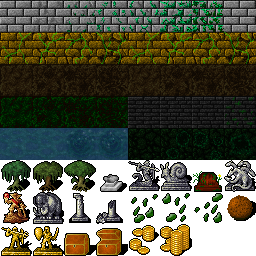
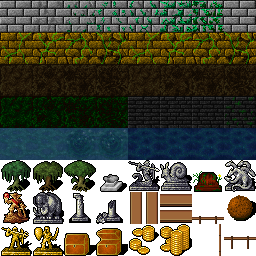
Jungle: a sinister new theme; rivers, bridges and room to breathe
Music: "Green Hell" rewritten as a dark A-phrygian piece at 84 bpm —
heartbeat war drums over a drone, a dissonant bone-xylophone ostinato
(minor seconds and tritones), a wavering flute that falls into its
notes, a low hummed chant, cicadas, wind and a distant growl. Levelled
with the other acts' themes.

Map: wider, more frequent rivers with deep channels that only the hero
can't cross (monsters swim), wooden bridges where the (now straight)
roads cross them plus footbridges every few screens (Xenodora's LPC
wood bridges, CC-BY-SA); sunlit clearings free of trees and undergrowth;
a third as many giant trees, thinner undergrowth, no vine thickets or
poison bogs, a brighter canopy and more sun shafts. Hell's deep lava now
shares the hero-only rule (demons wade it, slowed).

Claude-Session: https://claude.ai/code/session_01PMVu6fudvx91nmgD8yVYSR

Changed region(s): [[0.5, 0.5, 1.0, 0.625], [0.5, 0.75, 1.0, 1.0]]

diff --git a/game/game.js b/game/game.js
@@ -398,65 +398,71 @@ function desertTick(ahead) {
     music.nextT += sd;
   }
 }
-// "Green Hell" — an original jungle theme in A minor pentatonic over Am-G-F-G: log drums and
-// a shaker, a syncopated marimba ostinato, a breathy wooden flute, a marimba call-and-response
-// solo, bird calls in the canopy and frogs croaking in the undergrowth.
-const JUNGLE_CH = [{ root: 'A1', tri: ['A3', 'C4', 'E4'] }, { root: 'G1', tri: ['G3', 'B3', 'D4'] },
-  { root: 'F1', tri: ['F3', 'A3', 'C4'] }, { root: 'G1', tri: ['G3', 'B3', 'D4'] }];
-const MARIMBA_STEPS = [0, 3, 6, 8, 10, 13];        // 3-3-2-2-3 clave-ish syncopation
-const MARIMBA_ARP = [0, 2, 1, 2, 0, 1];             // which chord tone on each hit
-const FLUTE_A = ['E5:6 D5:2 C5:4 A4:4', 'G4:6 A4:2 D5:8', 'C5:4 A4:2 G4:2 F4:4 G4:4', 'A4:4 C5:4 D5:4 E5:4',
-  'G5:6 E5:2 D5:4 C5:4', 'D5:6 B4:2 G4:8', 'A4:2 C5:2 D5:2 E5:2 G5:4 E5:4', 'A5:12 -:4'].map(phrase);
-const MARIMBA_B = ['A4:2 C5:2 E5:2 C5:2 -:4 G5:2 E5:2', 'D5:2 B4:2 G4:4 -:4 A4:2 B4:2', 'C5:2 A4:2 F4:2 A4:2 -:4 C5:2 E5:2',
-  'D5:2 E5:2 G5:2 E5:2 D5:4 B4:4'].map(phrase);
+// "Green Hell" — an original, sinister jungle theme in A phrygian (A Bb C D E F G; sharps spell the flats)
+// over A - Bb - A - E(dim): war drums beating like a heart, a low drone, a dissonant bone-xylophone
+// ostinato (minor seconds and tritones), a wavering wooden flute that falls into its notes, a hummed
+// chant in the second half, cicadas, wind in the leaves and something large growling out in the trees.
+const JUNGLE_CH = [{ root: 'A1', tri: ['A3', 'C4', 'E4'], bone: ['A2', 'A#2', 'E3', 'D#3'] },
+  { root: 'A#1', tri: ['A#3', 'D4', 'F4'], bone: ['A#2', 'B2', 'F3', 'E3'] },
+  { root: 'A1', tri: ['A3', 'C4', 'E4'], bone: ['A2', 'A#2', 'E3', 'D#3'] },
+  { root: 'E1', tri: ['E3', 'G3', 'A#3'], bone: ['E2', 'F2', 'A#2', 'B2'] }];
+const BONE_STEPS = [0, 3, 6, 10];                   // the xylophone's lopsided 3-3-4-6 figure
+const FLUTE_A = ['E5:8 F5:4 E5:4', 'D5:6 C5:2 A#4:8', 'A4:12 -:4', 'C5:4 A#4:4 A4:4 G4:4',
+  'E5:8 F5:6 E5:2', 'G5:6 F5:2 E5:4 D5:4', 'C5:4 D5:2 C5:2 A#4:8', 'A4:16'].map(phrase);
+const CHANT_B = ['A3:8 A#3:8', 'A3:8 G3:8', 'A3:4 C4:4 A#4:8', 'A3:16'].map(phrase);
 const SONG3 = [{ sec: 'intro' }, { sec: 'intro', fill: true }];
 const LOOP3_AT = SONG3.length;
 FLUTE_A.forEach((mel, i) => SONG3.push({ sec: 'A', flute: mel, fill: i === 7 }));
-MARIMBA_B.forEach((mel, i) => SONG3.push({ sec: 'B', solo: mel, fill: i === 3 }));
-MARIMBA_B.forEach((mel, i) => SONG3.push({ sec: 'B2', solo: mel, flute: FLUTE_A[i * 2 + 1], fill: i === 3 }));
-// FM marimba: a 4:1 modulator with a very fast index decay gives the struck-wood "tok"
-const marimba = (t, f, vol) => { fm(t, f, 0.32, vol, 4, 2.2, 0.025); fm(t, f, 0.22, vol * 0.5, 1, 0.4, 0.05); };
+CHANT_B.forEach((mel, i) => SONG3.push({ sec: 'B', chant: mel, growl: i === 0, fill: i === 3 }));
+CHANT_B.forEach((mel, i) => SONG3.push({ sec: 'B2', chant: mel, flute: FLUTE_A[i * 2], fill: i === 3 }));
+// FM bone xylophone: a hollow, inharmonic knock (5.4:1 modulator, fast decay)
+const boneHit = (t, f, vol) => { fm(t, f, 0.5, vol, 5.4, 1.6, 0.04); fm(t, f, 0.3, vol * 0.6, 1, 0.5, 0.08); };
 function jungleTick(ahead) {
-  const bpm = 116, sd = 60 / bpm / 4;
+  const bpm = 84, sd = 60 / bpm / 4;
   if (music.nextT < audioCtx.currentTime - 0.1) music.nextT = audioCtx.currentTime + 0.05;
   while (music.nextT < audioCtx.currentTime + ahead) {
     const s = music.step % 16, bar16 = Math.floor(music.step / 16);
     let bi = bar16;
     if (bi >= SONG3.length) bi = LOOP3_AT + (bi - LOOP3_AT) % (SONG3.length - LOOP3_AT);
-    const bar = SONG3[bi], ch = JUNGLE_CH[bar16 % 4], t = music.nextT;
-    // log drums: deep boom, a mid answer and a high slit-drum knock; tumbling run into each section
-    if (s === 0 || s === 6 || s === 10) beep(t, 95, 0.3, 'sine', 0.2, -50);
-    if (s === 3 || s === 8 || s === 14) beep(t, 150, 0.16, 'sine', 0.12, -60);
-    if (s === 12) { beep(t, 260, 0.08, 'sine', 0.08, -90); beep(t, 1300, 0.012, 'square', 0.02); }
-    if (bar.fill && s >= 8 && s % 2 === 0) beep(t, 300 - (s - 8) * 25, 0.12, 'sine', 0.12, -80);
-    noiseHit(t, 0.02, s % 4 === 2 ? 0.03 : 0.012);                                  // shaker, offbeat push
-    // bass on the chord roots, a pulse that ducks with the boom
-    if (s === 0 || s === 7 || s === 10) fm(t, hz(ch.root) * (s === 7 ? 2 : 1), sd * 2.5, 0.11, 1, 1.4, 0.12);
-    // marimba ostinato (out in the intro's first bar, softer under the solo)
-    if (!(bar.sec === 'intro' && bar16 === 0) && MARIMBA_STEPS.includes(s)) {
-      const k = MARIMBA_STEPS.indexOf(s);
-      marimba(t, hz(ch.tri[MARIMBA_ARP[k]]) * (k === 3 ? 2 : 1), bar.solo ? 0.03 : 0.045);
+    const bar = SONG3[bi], ch = JUNGLE_CH[bar16 % 4], t = music.nextT, late = lateGame(480);
+    // drone: the root and its fifth, swelling under every bar; the wind moves through the leaves
+    if (s === 0) {
+      fm(t, hz(ch.root), 16 * sd, 0.045, 1, 0.9, 1.4, true);
+      fm(t, hz(ch.root) * 1.4983 * 1.003, 16 * sd, 0.02, 1, 0.4, 1.4, true);
+      if (bar16 % 2 === 0) noiseHit(t, 0.19, 0.012);
     }
-    // marimba solo with a tremolo on long notes
-    if (bar.solo) for (const ev of bar.solo) {
-      if (ev.at !== s) continue;
-      marimba(t, ev.f, 0.06);
-      if (ev.len >= 4) { marimba(t + sd, ev.f, 0.035); marimba(t + 2 * sd, ev.f, 0.025); }
-    }
-    // wooden flute: breathy FM with a scoop up into long notes
+    // war drums: a heartbeat boom (da-DUM ... da-DUM), a rattle between, rolls into each section
+    if (bar.sec !== 'intro' || bar16 % 2 === 1) {
+      if (s === 0 || s === 8) beep(t, 72, 0.4, 'sine', 0.16, -35);
+      if (s === 3 || s === 11) beep(t, 58, 0.5, 'sine', 0.18, -25);
+      if (s === 6 || s === 14) { beep(t, 120, 0.12, 'sine', 0.06, -50); noiseHit(t, 0.04, 0.02); }
+    } else if (s === 8) beep(t, 50, 0.7, 'sine', 0.12, -15);   // intro: one far-off drum
+    if ((bar.fill || late) && s >= 12) beep(t, 140 - (s - 12) * 15, 0.1, 'sine', 0.1, -60);
+    if (bar.sec.startsWith('B') && s % 4 === 2) beep(t, 95, 0.14, 'sine', 0.09, -45);   // the drummers close in
+    // the bone xylophone
+    if (bar.sec !== 'intro' && BONE_STEPS.includes(s)) boneHit(t, hz(ch.bone[BONE_STEPS.indexOf(s)]), bar.chant ? 0.03 : 0.04);
+    // wooden flute: falls a semitone into each long note, with a slow waver
     if (bar.flute) for (const ev of bar.flute) {
       if (ev.at !== s) continue;
       const dur = ev.len * sd * 0.95;
-      if (ev.len >= 4) fm(t, ev.f * 0.94, 0.05, 0.025, 1, 0.4, 0.05, true);
-      const t0 = ev.len >= 4 ? t + 0.04 : t;
-      fm(t0, ev.f, dur, 0.042, 1, 0.45, 0.4, true);
-      fm(t0, ev.f * 3.002, dur, 0.006, 1, 0.2, 0.4, true);                              // breath
+      if (ev.len >= 4) fm(t, ev.f * 1.059, 0.09, 0.03, 1, 0.4, 0.06, true);
+      const t0 = ev.len >= 4 ? t + 0.08 : t;
+      fm(t0, ev.f, dur, 0.04, 1, 0.5, 0.5, true);
+      fm(t0, ev.f * 1.008, dur, 0.016, 1, 0.3, 0.5, true);                              // the waver
+      fm(t0, ev.f * 3.002, dur, 0.005, 1, 0.2, 0.4, true);                              // breath
     }
-    // canopy: a bird's three-chirp call every other bar, a frog croak answering
-    if (bar16 % 2 === 1 && (s === 4 || s === 5 || s === 6)) beep(t, 2300 + (s - 4) * 300, 0.07, 'sine', 0.018, 1100);
-    if (bar16 % 4 === 2 && s === 14) { beep(t, 70, 0.12, 'square', 0.03, 30); beep(t + 0.14, 66, 0.12, 'square', 0.025, 30); }
-    // late game: the drummers double up
-    if (lateGame(480) && s % 2 === 1) beep(t, 190, 0.06, 'sine', 0.06, -60);
+    // B sections: a low hummed chant, in octaves
+    if (bar.chant) for (const ev of bar.chant) {
+      if (ev.at !== s) continue;
+      const dur = ev.len * sd * 0.98;
+      fm(t, ev.f, dur, 0.022, 1, 0.35, 1, true);
+      fm(t, ev.f * 0.5 * 1.004, dur, 0.02, 1, 0.3, 1, true);
+    }
+    // the canopy: cicadas hiss in pulses; something big growls out in the trees
+    if (s % 2 === 1 && (bar16 + (s >> 2)) % 3) beep(t, 4300 + (s % 3) * 180, 0.035, 'square', 0.0035);
+    if ((bar.growl || bar16 % 6 === 3) && s === 4) { beep(t, 150, 1.1, 'sawtooth', 0.018, -80); beep(t + 0.5, 110, 0.9, 'sawtooth', 0.014, -50); }
+    // late game: the drums never stop
+    if (late && s % 2 === 1) beep(t, 85, 0.08, 'sine', 0.07, -40);
     music.step++;
     music.nextT += sd;
   }
@@ -1349,7 +1355,8 @@ function scanEnv() {
   for (let iy = y0; iy <= y1; iy++) {
     for (let ix = x0; ix <= x1; ix++) {
       if (cellOf(ix * TILE + TILE / 2, iy * TILE + TILE / 2) !== T_FLOOR) continue;   // the map's own features come first
-      const oh = obstacleAt(ix, iy);
+      let oh = obstacleAt(ix, iy);
+      if (oh && mapDef.sparseTrees && (oh >>> 11) % mapDef.sparseTrees) oh = 0;      // the jungle keeps its trees further apart
       if (oh) {
         const kind = (oh >>> 3) % 8;
         obs.push({ x: ix * TILE + TILE / 2, y: iy * TILE + TILE / 2, r: state.act === 5 ? HELL_R[kind % 6] : state.act === 4 ? OCEAN_R[kind % 6] : state.act === 3 ? JUNGLE_R[kind % 6] : state.act === 2 ? DESERT_R[kind % 5] : PROP_R[kind], kind });
@@ -1468,7 +1475,7 @@ function drawJungleFloor() {
   for (let iy = iy0 - 1; iy * CT - camY < H; iy++) {
     for (let ix = ix0 - 1; ix * CT - camX < W; ix++) {
       const h = hash2(ix * 7 + 3, iy * 11 + 5);
-      if (h % 4) continue; if (!bareCell(ix, iy)) continue;                       // the undergrowth is thick
+      if (h % 7) continue; if (!bareCell(ix, iy)) continue;                       // undergrowth, with room to move
       const d = (h >>> 4) % 8, dx = ((h >>> 8) % 17) - 8, dy = ((h >>> 13) % 17) - 8;
       ctx.drawImage(img, d * CT, 176, CT, CT, ix * CT - camX + dx, iy * CT - camY + dy, CT, CT);
     }
@@ -1575,8 +1582,9 @@ function drawBrazierLight(bz) {
 // Art: assets/map<act>.png (Dungeon Crawl Stone Soup tiles, CC0) — rows: wall A, wall B, floor A,
 // floor B, liquid A x4 + liquid B x4 frames, props A, props B, specials.
 const MC = 64;                              // world units per map cell (= CT dots)
-const T_FLOOR = 0, T_FA = 1, T_FB = 2, T_WA = 3, T_WB = 4, T_LA = 5, T_LB = 6;
-const FAKE = 8;                             // looks like its type, but is open ground (secret entrances)
+const T_FLOOR = 0, T_FA = 1, T_FB = 2, T_WA = 3, T_WB = 4, T_LA = 5, T_LB = 6, T_BRIDGE = 7;   // a bridge's variant: 0 runs E-W, 1 runs N-S
+const FAKE = 8;
+const CLEARING = 1 << 4;                    // plain ground (type 0, variant 1) kept free of trees and undergrowth, sunlit                             // looks like its type, but is open ground (secret entrances)
 // cell code: type | FAKE | variant << 4 | prop << 8 (prop: 1-8 props A, 9-16 props B, 17-24 the act's big floor props)
 const cellType = c => c & 7;
 const PROP_MAP_R = 12;
@@ -1612,11 +1620,13 @@ const MAPDEF = {
     ],
     secret: { kind: 'dig', tpl: [' BBBBB ', 'BB;;;BB', 'B;;*;;B', 'BB;;;BB', ' BBYBB '] },
   },
-  3: {   // the Strangling Jungle: rivers, poison bogs, vine thickets, overgrown temples, stone circles, mangrove groves
-    road: 36, liqA: { slow: 0.55 }, liqB: { slow: 0.5, poison: true },
-    ridges: { scale: 6, t: 0.82, wall: T_WA }, lakes: { scale: 10, t: 0.8, liq: T_LB, shore: ['0', '1', '2'], shoreChance: 0.25 },
-    rivers: { scale: 26, w: 0.035, bank: ['0', '1', '2', 'P'], bankChance: 0.12 }, patch: { scale: 7, t: 0.6, props: ['V', 'W'], chance: 0.05 },
-    density: 0.45, ruin: 0.18,
+  3: {   // the Strangling Jungle: broad rivers with deep channels, crossed by wooden bridges and footbridges; open
+         // clearings between the trees; overgrown temples, stone circles, mangrove groves
+    road: 36, roadWobble: 0, liqA: { slow: 0.55 }, liqB: { solid: true, heroOnly: true, swim: 0.5 }, sparseTrees: 3,
+    lakes: { scale: 12, t: 0.8, deep: 0.86, shore: ['0', '1', '2'], shoreChance: 0.15 },
+    rivers: { scale: 20, w: 0.085, deep: 0.5, bridges: 9, bank: ['0', '1', '2'], bankChance: 0.05 },
+    patch: { scale: 9, t: 0.55, clearing: true },
+    density: 0.35, ruin: 0.18,
     structs: [
       ['BBB.BBB', 'B.....B', 'B.4.5.B', 'B..a..B', 'B.....B', 'BBB.BBB'],
       ['  4 4  ', ' 4   4 ', '4  6  4', ' 4   4 ', '  4 4  '],
@@ -1638,7 +1648,7 @@ const MAPDEF = {
     secret: { kind: 'fish', tpl: [' BBBBBBB ', 'BB.....BB', 'B...*...B', 'BB.....BB', ' BBBYBBB '] },
   },
   5: {   // the Gates of Hell: lava rivers and lakes, fortresses, pentagram altars, hell gates, flesh ridges, bone fields
-    road: 32, liqA: { slow: 0.7, burn: 6 }, liqB: { solid: true },
+    road: 32, liqA: { slow: 0.7, burn: 6 }, liqB: { solid: true, heroOnly: true },
     ridges: { scale: 6, t: 0.83 }, lakes: { scale: 10, t: 0.8, deep: 0.87 }, rivers: { scale: 24, w: 0.022 },
     patch: { scale: 7, t: 0.6, props: ['1', 'e'], chance: 0.05 },
     density: 0.5, ruin: 0.15,
@@ -1752,10 +1762,19 @@ function genCell(cx, cy) {
     }
   }
   // roads: winding stretches along a loose grid, about half of them there (they bridge rivers and cut through ridges)
-  const R = D.road, wx = rx + Math.round(Math.sin(ry / 5 + kx) * 2.5), wy = ry + Math.round(Math.sin(rx / 6 + ky) * 2.5);
+  const R = D.road, wob = D.roadWobble ?? 2.5;   // straight roads make straight bridges
+  const wx = rx + Math.round(Math.sin(ry / 5 + kx) * wob), wy = ry + Math.round(Math.sin(rx / 6 + ky) * wob);
   const lxr = ((wx % R) + R) % R, lyr = ((wy % R) + R) % R;
-  if ((lxr < 2 && hash2(Math.floor(wx / R) + mapSeed, Math.floor(ry / R)) % 10 < 5) ||
-      (lyr < 2 && hash2(Math.floor(rx / R), Math.floor(wy / R) - mapSeed) % 10 < 5)) return T_FA | (4 + ((h >>> 3) & 3)) << 4;
+  const roadNS = lxr < 2 && hash2(Math.floor(wx / R) + mapSeed, Math.floor(ry / R)) % 10 < 5;
+  const roadEW = lyr < 2 && hash2(Math.floor(rx / R), Math.floor(wy / R) - mapSeed) % 10 < 5;
+  // bridges carry roads over rivers; rivers that want them also get footbridges every so often
+  if (D.rivers && D.rivers.as !== 'fb' && riverAt(rx, ry) < D.rivers.w) {
+    const B = D.rivers.bridges, footNS = B && ((rx % B) + B) % B < 2 && hash2(Math.floor(rx / B) + mapSeed, Math.floor(ry / 8)) % 3 === 0;
+    const footEW = B && ((ry % B) + B) % B < 2 && hash2(Math.floor(rx / 8), Math.floor(ry / B) - mapSeed) % 3 === 0;
+    if ((roadEW || footEW) && crossesRiver(rx, ry, 1, 0)) return T_BRIDGE;
+    if ((roadNS || footNS) && crossesRiver(rx, ry, 0, 1)) return T_BRIDGE | 1 << 4;
+  }
+  if (roadNS || roadEW) return T_FA | (4 + ((h >>> 3) & 3)) << 4;
   if (D.ridges && vnoise(rx / D.ridges.scale, ry / D.ridges.scale, mapSeed + 5) > D.ridges.t) return (D.ridges.wall || T_WB) | ((h >>> 5) & 7) << 4;
   if (D.lakes) {
     const n = vnoise(rx / D.lakes.scale, ry / D.lakes.scale, mapSeed + 3);
@@ -1763,16 +1782,31 @@ function genCell(cx, cy) {
     if (D.lakes.shore && n > D.lakes.t - 0.03 && (h % 1000) < D.lakes.shoreChance * 1000) return T_FLOOR | propCode(D.lakes.shore[(h >>> 4) % D.lakes.shore.length]);
   }
   if (D.rivers) {
-    const R = D.rivers, warp = vnoise(rx / 9, ry / 9, mapSeed + 2) * 1.4;
-    const n = Math.abs(vnoise(rx / R.scale + warp, ry / R.scale, mapSeed + 1) - 0.5);
-    if (n < R.w) return R.as === 'fb' ? T_FB | (4 + ((h >>> 3) & 3)) << 4 : T_LA;
+    const R = D.rivers, n = riverAt(rx, ry);
+    if (n < R.w) return R.as === 'fb' ? T_FB | (4 + ((h >>> 3) & 3)) << 4 : R.deep && n < R.w * R.deep ? T_LB : T_LA;
     if (R.bank && n < R.w * 1.6 && (h % 1000) < R.bankChance * 1000) return T_FLOOR | propCode(R.bank[(h >>> 4) % R.bank.length]);
   }
   if (D.patch && vnoise(rx / D.patch.scale, ry / D.patch.scale, mapSeed + 4) > D.patch.t) {
+    if (D.patch.clearing) return CLEARING;
     const P = D.patch, prop = (h % 1000) < P.chance * 1000 ? propCode(P.props[(h >>> 4) % P.props.length]) : 0;
     return T_FB | (4 + ((h >>> 3) & 3)) << 4 | prop;
   }
   return T_FLOOR;
+}
+// distance-like measure from a river's centre line (rivers are where it's under D.rivers.w)
+function riverAt(rx, ry) {
+  const R = mapDef.rivers, warp = vnoise(rx / 9, ry / 9, mapSeed + 2) * 1.4;
+  return Math.abs(vnoise(rx / R.scale + warp, ry / R.scale, mapSeed + 1) - 0.5);
+}
+// does a bridge running along (dx, dy) here reach dry land within a few cells both ways? (so bridges
+// cross rivers instead of running down them)
+function crossesRiver(rx, ry, dx, dy) {
+  const w = mapDef.rivers.w;
+  let a = 0, b = 0;
+  for (let k = 1; k <= 6 && !a; k++) if (riverAt(rx - dx * k, ry - dy * k) >= w) a = k;
+  for (let k = 1; k <= 6 && !b; k++) if (riverAt(rx + dx * k, ry + dy * k) >= w) b = k;
+  // and the river carries on past both sides of the deck, so it isn't hugging a bank
+  return a > 0 && b > 0 && riverAt(rx + dy * 2, ry + dx * 2) < w && riverAt(rx - dy * 2, ry - dx * 2) < w;
 }
 function cellAt(cx, cy) {
   const k = (cx + 32768) * 65536 + (cy + 32768);
@@ -1795,6 +1829,7 @@ const solidAt = (wx, wy) => cellSolid(cellOf(wx, wy));
 function groundAt(wx, wy) {
   const c = cellOf(wx, wy), t = cellType(c);
   if (c & FAKE) return null;
+  if (t === T_LB && mapDef.liqB.heroOnly) return { slow: mapDef.liqB.swim || 0.7 };   // monsters swim (or wade lava)
   return t === T_LA ? mapDef.liqA : t === T_LB && !mapDef.liqB.solid ? mapDef.liqB : null;
 }
 // lava burns, the jungle bog poisons
@@ -1810,7 +1845,7 @@ function groundHazard(g, dt) {
 }
 // push a circle out of any solid cells it overlaps (it slides along walls)
 function resolveTerrain(ent) {
-  const r = ent.r || 12, demon = state.act === 5 && ent !== player;   // hell's deep lava only stops the hero
+  const r = ent.r || 12, demon = !!mapDef.liqB.heroOnly && ent !== player;   // deep water / lava only stops the hero
   const solid = c => cellSolid(c) && !(demon && cellType(c) === T_LB);
   for (let pass = 0; pass < 2; pass++) {
     const cx0 = Math.floor((ent.x - r) / MC), cx1 = Math.floor((ent.x + r) / MC);
@@ -1845,6 +1880,18 @@ function drawTerrain() {
       const c = cellAt(ix, iy), t = cellType(c);
       if (!t) continue;
       const v = (c >> 4) & 7, x = ix * CT - camX, y = iy * CT - camY;
+      if (t === T_BRIDGE) {   // water runs under the planks; railings along the open sides
+        ctx.drawImage(img, ((fr + ix + iy) % 4) * 32, 4 * 32, 32, 32, x, y, CT, CT);
+        ctx.drawImage(img, (v ? 5 : 4) * 32, 6 * 32, 32, 32, x, y, CT, CT);
+        if (!v) {
+          if (cellType(cellAt(ix, iy - 1)) !== T_BRIDGE) ctx.drawImage(img, 6 * 32, 6 * 32, 32, 32, x, y - 26, CT, CT);
+          if (cellType(cellAt(ix, iy + 1)) !== T_BRIDGE) ctx.drawImage(img, 7 * 32, 7 * 32, 32, 32, x, y + 18, CT, CT);
+        } else {
+          if (cellType(cellAt(ix - 1, iy)) !== T_BRIDGE) ctx.drawImage(img, 6 * 32, 7 * 32, 32, 32, x - 26, y, CT, CT);
+          if (cellType(cellAt(ix + 1, iy)) !== T_BRIDGE) ctx.drawImage(img, 6 * 32, 7 * 32, 32, 32, x + 3, y, CT, CT);
+        }
+        continue;
+      }
       let sx = v, sy;
       if (t === T_WA) sy = 0; else if (t === T_WB) sy = 1; else if (t === T_FA) sy = 2; else if (t === T_FB) sy = 3;
       else { sy = 4; sx = (t === T_LB ? 4 : 0) + (fr + ix + iy) % 4; }
@@ -4129,9 +4176,13 @@ function sceneLights(emit) {
     const S = 150, sx0 = Math.floor((player.x - VW / 2) / S) - 1, sy0 = Math.floor((player.y - VH / 2) / S) - 1;
     for (let sy = sy0; sy * S < player.y + VH / 2 + S; sy++) for (let sx = sx0; sx * S < player.x + VW / 2 + S; sx++) {
       const h = hash2(sx * 5 + 1, sy * 9 + 2);
-      if (h % 3) continue;
-      emit(sx * S + (h >>> 5) % S, sy * S + (h >>> 11) % S, 26 + (h >>> 17) % 22, 'sun');
+      if (h % 2) continue;
+      emit(sx * S + (h >>> 5) % S, sy * S + (h >>> 11) % S, 32 + (h >>> 17) % 26, 'sun');
     }
+    // clearings stand in open sunlight
+    const cx0 = Math.floor(camX / CT) - 1, cy0 = Math.floor(camY / CT) - 1;
+    for (let cy = cy0; cy * CT - camY < H + CT; cy += 2) for (let cx = cx0 - (cx0 & 1); cx * CT - camX < W + CT; cx += 2)
+      if (cellAt(cx, cy) === CLEARING) emit((cx + 0.5) * MC, (cy + 0.5) * MC, 44, 'sun');
   }
   emit(player.x, player.y - 10, (state.berserkT > 0 ? 140 : 112) + flick * 2, state.berserkT > 0 ? 'berserk' : 'hero');
   for (const bz of state.brazList || []) emit(bz.x, bz.y - 12, 42 + ((Math.floor(uiTime * 7 + bz.x) % 3) * 2), 'fire');
@@ -4169,7 +4220,7 @@ function renderDarkness() {
   g.globalCompositeOperation = 'source-over';
   g.clearRect(0, 0, W, H);
   // the jungle is canopy shade (green-black, lighter) rather than crypt dark
-  g.fillStyle = state.act === 5 ? 'rgba(22,0,0,0.66)' : state.act === 4 ? 'rgba(0,14,40,0.55)' : state.act === 3 ? 'rgba(0,18,6,0.5)' : `rgba(6,0,10,${DARKNESS})`;
+  g.fillStyle = state.act === 5 ? 'rgba(22,0,0,0.66)' : state.act === 4 ? 'rgba(0,14,40,0.55)' : state.act === 3 ? 'rgba(0,18,6,0.4)' : `rgba(6,0,10,${DARKNESS})`;
   g.fillRect(0, 0, W, H);
   g.globalCompositeOperation = 'destination-out';
   sceneLights((wx, wy, r) => {
@@ -4188,7 +4239,7 @@ function renderDarkness() {
 // bright pass, blurred, added back. Colours are in "art brightness": 1 = the sprite as drawn.
 const LIGHT_GAIN = 1.6;   // a full light-map channel = 1.6x the art, so torches and fire can run hot
 const AMBIENT = {         // crypt gloom, desert daylight, canopy shade, deep water, hellfire
-  1: [0.3, 0.27, 0.4], 2: [1, 0.98, 0.94], 3: [0.42, 0.55, 0.36], 4: [0.28, 0.42, 0.6], 5: [0.5, 0.2, 0.16] };
+  1: [0.3, 0.27, 0.4], 2: [1, 0.98, 0.94], 3: [0.52, 0.64, 0.44], 4: [0.28, 0.42, 0.6], 5: [0.5, 0.2, 0.16] };
 const LIGHT_COL = {
   berserk: [1.1, 0.6, 0.48], rage: [1.5, 0.3, 0.2], fire: [1.05, 0.55, 0.2], fireball: [1.2, 0.5, 0.2],
   laser: [0.4, 1.1, 1.4], acid: [0.5, 1.3, 0.2], thorn: [0.4, 1, 0.25], ink: [0.55, 0.35, 0.9], coconut: [0.9, 0.7, 0.4],

diff --git a/game/assets/CREDITS.md b/game/assets/CREDITS.md
@@ -33,6 +33,11 @@ quokka, chests and gold) are **Dungeon Crawl Stone Soup** tiles, **CC0**
 picked and packed into one 32px sheet per act. The desert's "X" is DCSS's
 diagonal sigil laid over its mirror image.
 
+The jungle's bridges (plank decks and railings in `map3.png`) are "LPC style
+wood bridges" by **Xenodora**, **CC-BY-SA 3.0** / GPL 3.0 / GPL 2.0:
+https://opengameart.org/node/15135 — so `map3.png` (and `hd/map3.png`) is
+shared under **CC-BY-SA 3.0**.
+
 ## HD sheets (`hd/`)
 
 `hd/<name>.png` is a 2x version of `<name>.png` for the HD graphics mode; each
